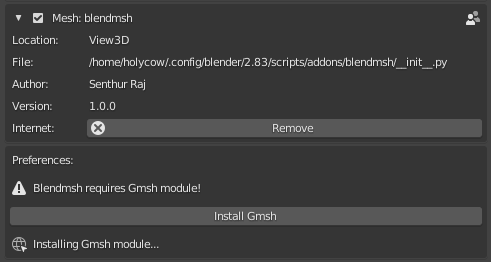
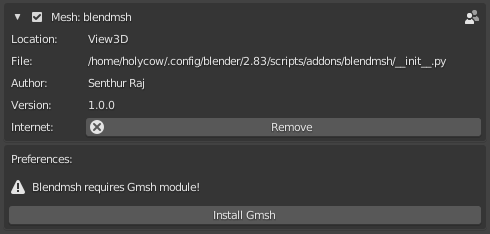
Optimized images.

diff --git a/preferences.py b/preferences.py
@@ -17,7 +17,6 @@ class BlendmshPreferences(bpy.types.AddonPreferences):
             layout.label(text='Blendmsh requires Gmsh module!', icon='ERROR')
             row = layout.row()
             row.operator('blendmsh.installer')
-            layout.label(text='Installing Gmsh module...', icon='URL')
 
 class BlendmshInstaller(bpy.types.Operator):
     bl_idname = "blendmsh.installer"

diff --git a/README.md b/README.md
@@ -41,7 +41,7 @@ Blendmsh is a bridge between Blender 2.80+ and Gmsh, a fast and light 3D finite 
 ### Definition of Physical Groups
 Physical groups can be defined by assigning materials to faces (Boundaries).
 
-![Physical Groups](documentation/physical_groups_def.png)
+![Physical Groups](documentation/physicalgroups.png)
 
 ### Output
 Output mesh is saved to the specified workspace path, it can then be imported into FreeCAD, OpenFOAM, Paraview or anyother application that supports the above mentioned mesh format. 
